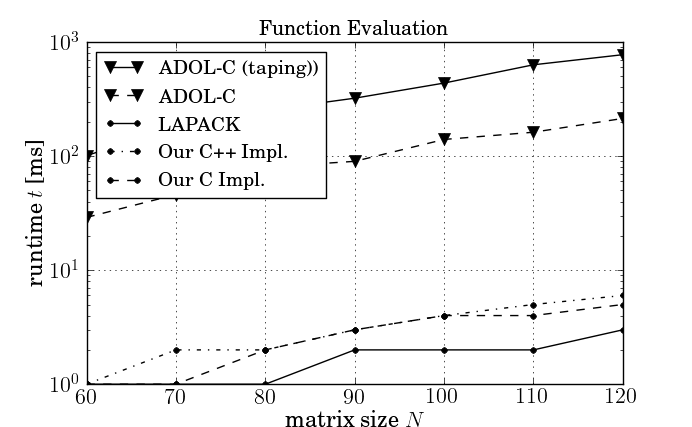
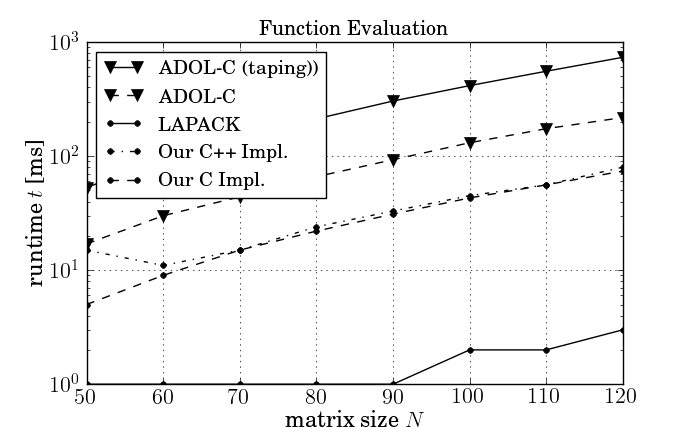
implemented a dot function in C++ that can be traced with ADOL-C and performing a runtime comparision between ADOL-C and Taylorpoly

diff --git a/test_program/matrix_ad_vs_adolc_vs_tapenade.cpp b/test_program/matrix_ad_vs_adolc_vs_tapenade.cpp
@@ -9,6 +9,7 @@
 
 #include "adolc/adolc.h"
 #include "dense_inverse.hpp"
+#include "dot.hpp"
 
 extern "C"{
 #include "clapack.h"
@@ -469,9 +470,8 @@ int main(int argc, char* argv[]){
 	inv_b(A, Abar, Ainv, Ainvbar, R, Rbar, N);
 	end_time = mtime();
 	printf("TAPENADE gradient evaluation of f using the c code needs %d ms.\n",(end_time-start_time));
-	runtimes_file<<end_time-start_time<<endl;
+	runtimes_file<<end_time-start_time<<"\t";
 	
-	runtimes_file.close();
 	snprintf (mycmd, (size_t)255, "cat /proc/%d/status | grep VmPeak >> mem_consumption.txt", getpid());
 	system(mycmd);
 	
@@ -487,10 +487,10 @@ int main(int argc, char* argv[]){
 	/* ============================================= */
 	/* TESTING HIGHER-ORDER DERIVATIVES              */
 	/* ============================================= */
-	int P = 1; int D = 4; 
-	double *utpm_A = new double[N*N + (D-1)*P*(N*N)];
-	double *utpm_B = new double[N*N + (D-1)*P*(N*N)];
-	double *utpm_C = new double[N*N + (D-1)*P*(N*N)];
+	int P = 1; int D = 5;
+	double *utpm_A = new double[(1+(D-1)*P)*(N*N)];
+	double *utpm_B = new double[(1+(D-1)*P)*(N*N)];
+	double *utpm_C = new double[(1+(D-1)*P)*(N*N)];
 	int *utpm_strides = new int[3];
 	utpm_strides[0] = N*N*sizeof(double);
 	utpm_strides[1] = sizeof(double);
@@ -504,12 +504,48 @@ int main(int argc, char* argv[]){
 		utpm_B[i] = rand()/100000000000.;
 	}
 	
-	print_utpm(P, D, 2, utpm_shape, &utpm_strides[1], utpm_A);
+	// print_utpm(P, D, 2, utpm_shape, &utpm_strides[1], utpm_A);
+	start_time = mtime();
 	utpm_dot(P, D, N, N, N, 1., utpm_A, utpm_strides, utpm_B, utpm_strides, 0., utpm_C, utpm_strides);
+	end_time = mtime();
+	runtimes_file<<end_time-start_time<<"\t";
+	printf("taylorpoly UTPM needs %d ms.\n",(end_time-start_time));	
 	
-
-
-
+	/* trace the operations with ADOL-C */
+	adouble *aA2 = new adouble[(N*N)];
+	adouble *aB2 = new adouble[(N*N)];
+	adouble *aC2 = new adouble[(N*N)];
+	
+	start_time = mtime();
+	trace_on(2);
+	for(int n = 0; n!=N; ++n){
+		for(int m = 0; m!=N; ++m){
+			aA2[id(n,m,N)]<<= utpm_A[id(n,m,N)];
+			aB2[id(n,m,N)]<<= utpm_B[id(n,m,N)];
+		}
+	}
+	dot(aA2, aB2, aC2, N);
+	for(int n = 0; n!=N; ++n){
+		for(int m = 0; m!=N; ++m){
+			aC2[id(n,m,N)]>>= utpm_C[id(n,m,N)];
+		}
+	}
+	trace_off();
+	end_time = mtime();
+	
+	double *x2 = new double[2*N*N];
+	double *y2 = new double[N*N];
+	double ***V2 = myalloc3(2*N*N,P, D-1);
+	double ***W2 = myalloc3(N*N,P, D-1);
+	
+	// start_time = mtime();
+	start_time = mtime();
+	hov_forward(2,N*N,2*N*N,D-1, P, x2, V2, y2, W2);
+	end_time = mtime();
+	runtimes_file<<end_time-start_time<<"\t";
+	printf("ADOL-C hov_forward needs %d ms.\n",(end_time-start_time));
+	runtimes_file<<endl;
+	runtimes_file.close();
 	return 0;
 }
 

diff --git a/test_program/run_test_series.py b/test_program/run_test_series.py
@@ -4,6 +4,8 @@ from pylab import *
 import prettyplotting
 import numpy
 import re
+import time
+
 
 try:
 	os.remove("runtimes.txt")
@@ -13,10 +15,11 @@ except:
 	pass
 
 
-Ns = range(60,130,10)
+Ns = range(50,130,10)
 
 for N in Ns:
-	os.system("./matrix_ad_vs_adolc_vs_tapenade.exe %d" % N)
+    time.sleep(2)
+    os.system("./matrix_ad_vs_adolc_vs_tapenade.exe %d" % N)
 
 dat = numpy.loadtxt('runtimes.txt')
 
@@ -47,8 +50,6 @@ gradient_utpm_my_c_implementation = semilogy(dat[:,0], dat[:,8], '-.k.')
 gradient_utpm_lapack = semilogy(dat[:,0], dat[:,9], '--k.')
 gradient_utps_tapenade  = semilogy(dat[:,0], dat[:,10], '--kv')
 
-
-
 xlabel('matrix size $N$')
 ylabel('runtime $t$ [ms]')
 
@@ -57,6 +58,20 @@ legend((gradient_utps_adolc, gradient_utps_tapenade, gradient_utpm_my_c_implemen
 grid()
 savefig('gradient_matrix_ad_vs.eps')
 savefig('gradient_matrix_ad_vs.png')
+
+# Timing UTP arithmetic
+figure()
+utpm_taylorpoly = semilogy(dat[:,0], dat[:,-2], '-.k.')
+utps_adolc = semilogy(dat[:,0], dat[:,-1], '-kv')
+xlabel('matrix size $N$')
+ylabel('runtime $t$ [ms]')
+
+title(r'UTP Arithmetic')
+legend((utpm_taylorpoly, utps_adolc), ('UTPM (TAYLORPOLY)', 'UTPS (ADOL-C)'),loc = 2)
+grid()
+savefig('utps_vs_utpm.eps')
+savefig('utps_vs_utpm.png')
+
 
 # #########################################
 # #      MEMORY CONSUMPTION               #
